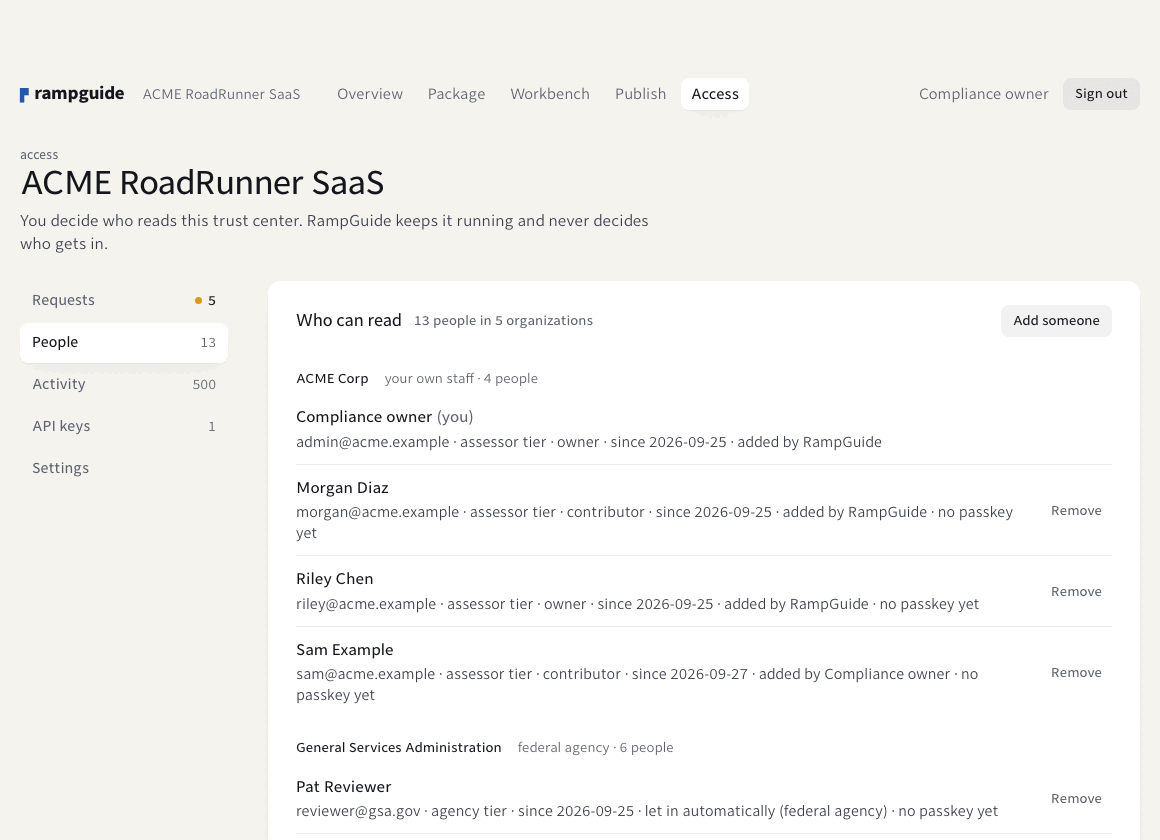
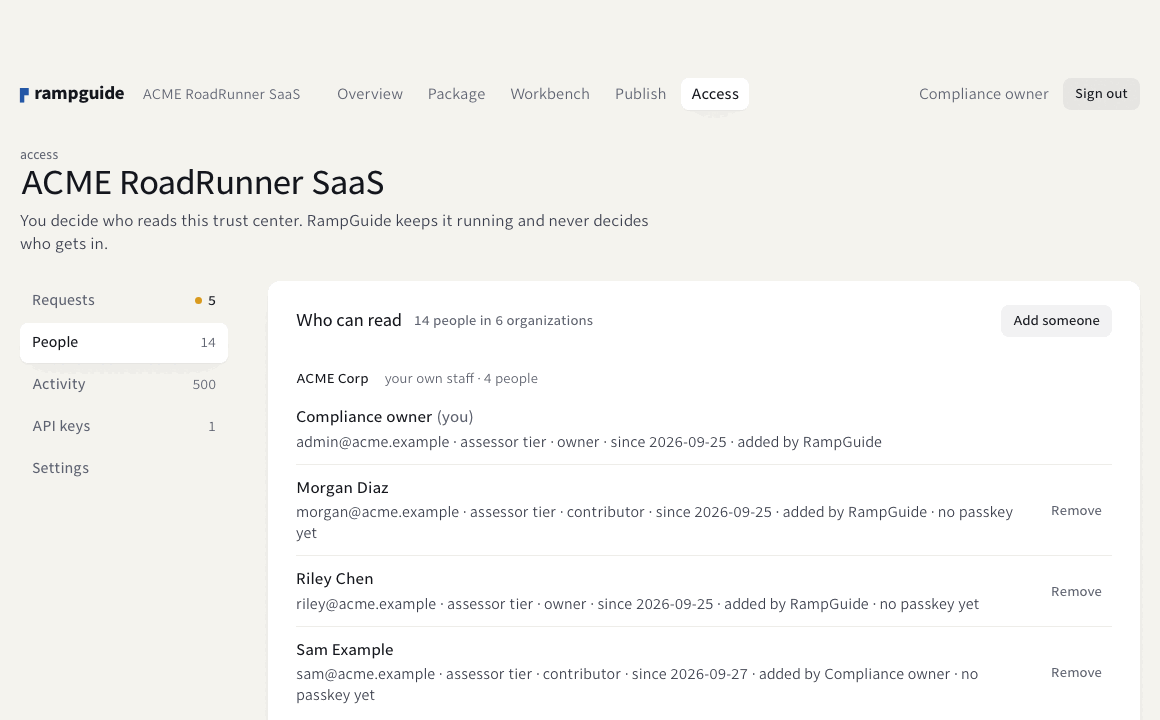
Screenshots: a fictional agency, not a real one
Two of the new product screenshots were captured as a reader granted
under the General Services Administration, so the Package read "You read
as General Services Administration" and the Access panel listed gsa.gov
addresses. On a public page that breaks the fictional-names rule and
reads as a claim that a real agency uses RampGuide. The Package is now
captured as a reader from "Dept. of Example", a fictional agency made on
the local instance only, and Access is cropped to ACME's own staff, so
neither image shows a real agency, domain or .gov address. The alt text
says the agency is fictional.

diff --git a/product.html b/product.html
@@ -136,7 +136,7 @@
     </div>
 
     <div class="shot reveal">
-      <div class="shot-img"><span class="cap">Access</span><img src="img/app-access.png" alt="The Access page, People tab: who can read this trust center, grouped by organization. The provider's own staff with their roles and tiers, then a federal agency reviewer let in automatically at the agency tier. A menu on the left: requests, people, activity, API keys, settings." width="1160" height="840" loading="lazy"></div>
+      <div class="shot-img"><span class="cap">Access</span><img src="img/app-access.png" alt="The Access page, People tab: who can read this trust center, grouped by organization, starting with the provider's own staff and their roles and tiers. A menu on the left: requests, people, activity, API keys, settings." width="1160" height="720" loading="lazy"></div>
       <div>
         <div class="n">05</div>
         <h3>You decide who reads, and see every read.</h3>
@@ -150,7 +150,7 @@
     </div>
 
     <div class="shot flip reveal">
-      <div class="shot-img"><span class="cap">The trust center</span><img src="img/app-package.png" alt="The package as a federal agency reviewer reads it in the trust center: the documents at the agency tier, each with its path, date, the controls it answers, its size and its SHA-256 hash, and buttons to open or download it." width="1160" height="780" loading="lazy"></div>
+      <div class="shot-img"><span class="cap">The trust center</span><img src="img/app-package.png" alt="The package as a reviewer from Dept. of Example, a fictional federal agency, reads it in the trust center: the documents at the agency tier, each with its path, date, the controls it answers, its size and its SHA-256 hash, and buttons to open or download it." width="1160" height="780" loading="lazy"></div>
       <div>
         <div class="n">06</div>
         <h3>What an agency reads, hash for hash.</h3>

diff --git a/src/product.html b/src/product.html
@@ -118,7 +118,7 @@
     </div>
 
     <div class="shot reveal">
-      <div class="shot-img"><span class="cap">Access</span><img src="img/app-access.png" alt="The Access page, People tab: who can read this trust center, grouped by organization. The provider's own staff with their roles and tiers, then a federal agency reviewer let in automatically at the agency tier. A menu on the left: requests, people, activity, API keys, settings." width="1160" height="840" loading="lazy"></div>
+      <div class="shot-img"><span class="cap">Access</span><img src="img/app-access.png" alt="The Access page, People tab: who can read this trust center, grouped by organization, starting with the provider's own staff and their roles and tiers. A menu on the left: requests, people, activity, API keys, settings." width="1160" height="720" loading="lazy"></div>
       <div>
         <div class="n">05</div>
         <h3>You decide who reads, and see every read.</h3>
@@ -132,7 +132,7 @@
     </div>
 
     <div class="shot flip reveal">
-      <div class="shot-img"><span class="cap">The trust center</span><img src="img/app-package.png" alt="The package as a federal agency reviewer reads it in the trust center: the documents at the agency tier, each with its path, date, the controls it answers, its size and its SHA-256 hash, and buttons to open or download it." width="1160" height="780" loading="lazy"></div>
+      <div class="shot-img"><span class="cap">The trust center</span><img src="img/app-package.png" alt="The package as a reviewer from Dept. of Example, a fictional federal agency, reads it in the trust center: the documents at the agency tier, each with its path, date, the controls it answers, its size and its SHA-256 hash, and buttons to open or download it." width="1160" height="780" loading="lazy"></div>
       <div>
         <div class="n">06</div>
         <h3>What an agency reads, hash for hash.</h3>

diff --git a/src/trust-center.html b/src/trust-center.html
@@ -137,7 +137,7 @@
       <div class="sheet reveal d3"><div class="n">04</div><h3>Every event logged</h3><p>Views, downloads, approvals, denials, with the package version each viewer saw. The change history is the quarterly report you already generate.</p></div>
     </div>
     <p class="muted" style="margin-top:1.6rem;max-width:60em">Two things fall out of building it this way. The inventory FedRAMP asks for already comes out of every build, word counts and last-updated dates included. And the readable documents and the machine-readable package can never disagree on the trust center, because both came out of the same build. Programs read the same package through a documented <a href="api.html" style="color:var(--blue);font-weight:500;text-decoration:underline;text-underline-offset:3px">API</a>.</p>
-    <figure class="shot reveal" style="margin-left:0;margin-right:0"><img src="img/app-package.png" alt="The package as a federal agency reviewer reads it in the trust center: the documents at the agency tier, each with its path, date, the controls it answers, its size and its SHA-256 hash, and buttons to open or download it." width="1160" height="780" loading="lazy"></figure>
+    <figure class="shot reveal" style="margin-left:0;margin-right:0"><img src="img/app-package.png" alt="The package as a reviewer from Dept. of Example, a fictional federal agency, reads it in the trust center: the documents at the agency tier, each with its path, date, the controls it answers, its size and its SHA-256 hash, and buttons to open or download it." width="1160" height="780" loading="lazy"></figure>
   </div>
 </section>
 

diff --git a/trust-center.html b/trust-center.html
@@ -155,7 +155,7 @@
       <div class="sheet reveal d3"><div class="n">04</div><h3>Every event logged</h3><p>Views, downloads, approvals, denials, with the package version each viewer saw. The change history is the quarterly report you already generate.</p></div>
     </div>
     <p class="muted" style="margin-top:1.6rem;max-width:60em">Two things fall out of building it this way. The inventory FedRAMP asks for already comes out of every build, word counts and last-updated dates included. And the readable documents and the machine-readable package can never disagree on the trust center, because both came out of the same build. Programs read the same package through a documented <a href="api.html" style="color:var(--blue);font-weight:500;text-decoration:underline;text-underline-offset:3px">API</a>.</p>
-    <figure class="shot reveal" style="margin-left:0;margin-right:0"><img src="img/app-package.png" alt="The package as a federal agency reviewer reads it in the trust center: the documents at the agency tier, each with its path, date, the controls it answers, its size and its SHA-256 hash, and buttons to open or download it." width="1160" height="780" loading="lazy"></figure>
+    <figure class="shot reveal" style="margin-left:0;margin-right:0"><img src="img/app-package.png" alt="The package as a reviewer from Dept. of Example, a fictional federal agency, reads it in the trust center: the documents at the agency tier, each with its path, date, the controls it answers, its size and its SHA-256 hash, and buttons to open or download it." width="1160" height="780" loading="lazy"></figure>
   </div>
 </section>
 
